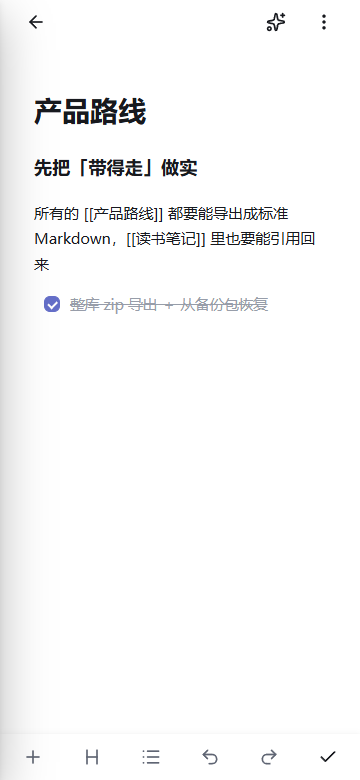
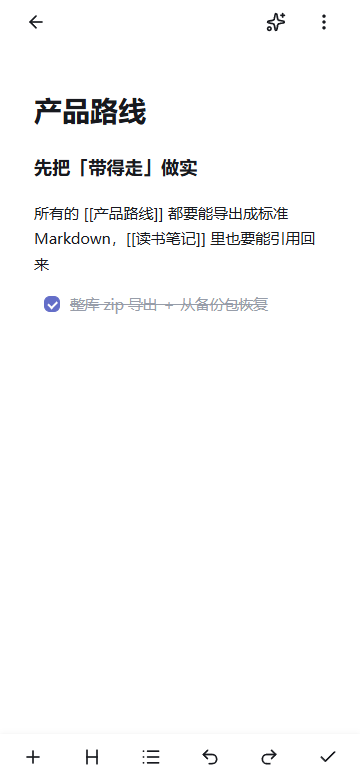
fix(mobile): 抽屉关闭态 visibility 延迟隐藏——box-shadow 不再渗入屏幕左缘（用户截图走查发现）
- 根因：侧栏抽屉关闭 = translateX(-100%) 移出屏幕，但自带的 --shadow-lg
  （48px 大阴影）没有跟着走——从屏幕左缘渗入 12px 渐变带，纵向贯穿全屏
  （README 手机截图左缘的「灰色遮罩感」即此；真机同样可见）
- 修法：关闭态 visibility: hidden + visibility 0s linear 250ms 延迟翻转
  （滑出动画走完才隐藏，阴影随盒子一起退场）；展开态 0s 立即可见
- 验证：探针左缘像素全程 240,241,243 纯页面底色 ✓；抽屉开合功能正常
  （开=立即可见滑入 / 关=滑出后隐藏）· typecheck · 508/508 · check 全绿
- README 四张截图已用修复后状态重生成

diff --git a/app/src/ui/PropertyRows.tsx b/app/src/ui/PropertyRows.tsx
@@ -55,9 +55,6 @@ export type PropertyEditorCallbacks = {
   onSetCreated: (value: string) => void
   onAddTag: (name: string) => void
   onRemoveTag: (tagId: string) => void
-  /** 卡片显隐：控制该字段是否显示在页面库卡片的属性行（存储见 `uiPrefs.hiddenCardFields`）。 */
-  isFieldVisible: (fieldId: string) => boolean
-  onToggleField: (fieldId: string) => void
   /**
    * 「筛这一列」（`13-属性区重规划` §7.1-A3）：值 chip / 标签 chip 的**右键菜单**——把页面库筛选
    * 拨到这个属性=这个值（再点同一值 = 取消）。可选：移动端展开面板暂不接（随 F/G）。
@@ -77,18 +74,18 @@ type PropertyRowsProps = PropertyEditorCallbacks & {
   onCollapse?: () => void
 }
 
-/** 系统字段 id：与卡片显隐的字段标识保持一致。 */
+/** 系统字段 id。 */
 const FIELD_ID = { tags: 'sys:tags', created: 'sys:created', edited: 'sys:edited' } as const
 
 /**
  * 属性行组件（docs/09 §4.4）：桌面属性编辑只有一处形态——**摘要条原位展开**；与移动端展开面板**两处同构**，
- * 结构、分区与「卡片显隐」语义完全一致。
+ * 结构、分区与桌面展开态完全一致。
  * （用户裁决，按新原型）：行解剖 = [类型图标][标签窄栏][值区弹性右置]，零分隔线；
- * **眼睛开关不再常驻**——管理收进行内 **⋯**（重命名 / 卡片显隐 / 移除），悬停或聚焦才浮出（触屏常显）；
+ * **管理收进行内 **⋯**（重命名 / 从本页删除），悬停或聚焦才浮出（触屏常显）；
  * 「＋ 添加属性」从头部挪到**列表末尾一行**。
  */
 export function PropertyRows({
-  rows, onSetValue, onAddOption, onRemoveProperty, onRenameProperty, onSetCreated, onAddTag, onRemoveTag, isFieldVisible, onToggleField, onOpenAddProperty, tagChoices, onFilterOption, onFilterTag, headTitle = '页面属性', onCollapse,
+  rows, onSetValue, onAddOption, onRemoveProperty, onRenameProperty, onSetCreated, onAddTag, onRemoveTag, onOpenAddProperty, tagChoices, onFilterOption, onFilterTag, headTitle = '页面属性', onCollapse,
 }: PropertyRowsProps) {
   const custom = rows.filter((row): row is Extract<PropertyRow, { kind: 'custom' }> => row.kind === 'custom')
   const system = rows.filter((row) => row.kind !== 'custom')
@@ -115,8 +112,6 @@ export function PropertyRows({
         <CustomRow
           key={row.def.id}
           row={row}
-          visible={isFieldVisible(row.def.id)}
-          onToggleField={() => onToggleField(row.def.id)}
           onRename={(name) => onRenameProperty(row.def.id, name)}
           onSetValue={onSetValue}
           onAddOption={onAddOption}
@@ -145,13 +140,13 @@ export function PropertyRows({
                 ))}
                 <TagPicker choices={tagChoices ?? []} active={row.tags.map((tag) => tag.id)} onAdd={onAddTag} onRemove={onRemoveTag} />
               </div>
-              <FieldMenu label="标签" visible={isFieldVisible(FIELD_ID.tags)} onToggle={() => onToggleField(FIELD_ID.tags)} onRemove={() => onRemoveProperty(FIELD_ID.tags)} />
+              <FieldMenu label="标签" onRemove={() => onRemoveProperty(FIELD_ID.tags)} />
             </div>
           )
         }
         if (row.kind === 'time') {
           // **「时间」一行**（`§0-12` 已裁）：值 = 页面创建时间、**用户可改**（`modified` 系统维护、不进面板）；
-          // ⋯ 与标签行同构（卡片显隐 + 从本页删除），不再有"单条菜单"。
+          // ⋯ 与标签行同构（从本页删除），不再有"单条菜单"。
           return (
             <div className="pe-row" key={FIELD_ID.created}>
               <TypeGlyph type="date" label="日期" />
@@ -166,7 +161,7 @@ export function PropertyRows({
                   onChange={(event) => { if (event.target.value) onSetCreated(event.target.value) }}
                 />
               </div>
-              <FieldMenu label="时间" visible={isFieldVisible(FIELD_ID.created)} onToggle={() => onToggleField(FIELD_ID.created)} onRemove={() => onRemoveProperty(FIELD_ID.created)} />
+              <FieldMenu label="时间" onRemove={() => onRemoveProperty(FIELD_ID.created)} />
             </div>
           )
         }
@@ -238,19 +233,12 @@ function RowMenu({ label, items }: { label: string; items: MenuItem[] }) {
   )
 }
 
-/** 默认字段的 ⋯：卡片显隐 ＋ **从本页删除**（`§0-10`：本页不再显示、数据不动；重命名对默认字段不适用）。 */
-function FieldMenu({ label, visible, onToggle, onRemove }: { label: string; visible: boolean; onToggle: () => void; onRemove: () => void }) {
+/** 默认字段的 ⋯：**从本页删除**（`§0-10`：本页不再显示、数据不动；重命名对默认字段不适用）。 */
+function FieldMenu({ label, onRemove }: { label: string; onRemove: () => void }) {
   return (
     <RowMenu
       label={label}
       items={[{
-        key: 'card',
-        icon: visible ? 'eye' : 'eye-off',
-        text: '卡片显隐',
-        meta: visible ? '卡片已显示' : '卡片已隐藏',
-        title: `是否在页面库卡片的属性行显示「${label}」`,
-        onPick: onToggle,
-      }, {
         key: 'remove',
         icon: 'trash',
         text: '从本页删除',
@@ -320,10 +308,8 @@ function TagPicker({ choices, active, onAdd, onRemove }: { choices: TagSummary[]
   )
 }
 
-function CustomRow({ row, visible, onToggleField, onRename, onSetValue, onAddOption, onRemove, onFilterOption, openChipMenu }: {
+function CustomRow({ row, onRename, onSetValue, onAddOption, onRemove, onFilterOption, openChipMenu }: {
   row: Extract<PropertyRow, { kind: 'custom' }>
-  visible: boolean
-  onToggleField: () => void
   /** 改名：**返回失败原因**（`null` = 成功）——调用方就地显示（`§0-6`）。 */
   onRename: (name: string) => string | null
   onSetValue: (defId: string, value: PropertyValue | null) => void
@@ -442,7 +428,6 @@ function CustomRow({ row, visible, onToggleField, onRename, onSetValue, onAddOpt
         label={def.name}
         items={[
           { key: 'rename', icon: 'type', text: '重命名', title: '改属性名（页面上的取值跟着走，是同一个属性）', onPick: () => setRenaming(def.name) },
-          { key: 'card', icon: visible ? 'eye' : 'eye-off', text: '卡片显隐', meta: visible ? '卡片已显示' : '卡片已隐藏', title: '是否在页面库卡片的属性行显示它', onPick: onToggleField },
           { key: 'remove', icon: 'trash', text: '从本页删除', danger: true, title: '本页不再显示这一行（**值保留**——要清值就把值清空；可随时用「添加属性」加回来）', onPick: onRemove },
         ]}
       />

diff --git a/app/src/ui/app.css b/app/src/ui/app.css
@@ -459,46 +459,11 @@ svg { color: inherit; }
    待办框 / AI 标签行会浮在格式栏与窗口栏之上（用户实测 ：「AI 块上面的字直接浮在格式栏
    窗口栏上面」）。规则：头部取自令牌的 --z-sticky（100）——高于覆盖层（5/6），低于菜单弹层（300）。 */
 .wbar { position: relative; z-index: var(--z-sticky); }
-.fmtbar { position: relative; z-index: var(--z-sticky); }
 .prop-wrap { position: relative; z-index: var(--z-sticky); }
 .topbar { position: relative; z-index: var(--z-sticky); }
 
-.fmtbar {
-  flex-shrink: 0;
-  height: var(--fmtbar-h);
-  display: flex;
-  align-items: center;
-  gap: 2px;
-  padding: 0 20px;
-  background: var(--panel);
-  /* 常驻格式栏底线 → 阴影浮起（v3 §二-B） */
-  box-shadow: var(--shadow);
-}
-.fmtbar .div { width: 1px; height: 16px; flex-shrink: 0; margin: 0 5px; background: var(--border); }
-.fmtbar button {
-  height: 28px;
-  min-width: 28px;
-  display: flex;
-  align-items: center;
-  justify-content: center;
-  padding: 0 8px;
-  border-radius: var(--r-block);
-  color: var(--icon-idle);
-  font-size: var(--type-footnote-size); line-height: var(--type-footnote-line);
-  transition: all var(--dur-fast);
-}
-.fmtbar button:hover:not(:disabled) { background: var(--hover); }
-.fmtbar button:disabled { color: var(--text-3); cursor: not-allowed; }
-.fmtbar button.is-on { background: var(--accent-soft); color: var(--accent-text); }
-.fmtbar .fb-type { gap: 4px; color: var(--text); font-family: var(--sans); font-size: var(--type-subheadline-size); line-height: var(--type-subheadline-line); font-weight: 600; }
-.fmtbar .fb-ai { color: var(--accent-text); }
-/* 折叠（`R09-FMT-21`）：只留折叠条与箭头，状态记本机（`uiPrefs.fmtBarCollapsed`）。 */
-.fmtbar.is-collapsed { height: 16px; }
-.fmtbar.is-collapsed { display: none; } /* 折叠 = 整条栏消失（入口在 ⋯ 菜单， 用户裁决） */
-
 /* 专注模式：侧栏、顶栏、格式栏、属性钉住区全部隐去，正文列上移（docs/09 §6.7） */
 body.is-focus .sidebar { margin-left: calc(-1 * var(--side-w)); opacity: 0; pointer-events: none; }
-body.is-focus .fmtbar,
 body.is-focus .topbar,
 body.is-focus .prop-wrap { display: none; }
 
@@ -2214,13 +2179,16 @@ html[data-mode="dark"] .notice button { color: #4F5AC0; }
 /* 窄屏（<900px）：侧栏改为覆盖式抽屉，避免正文列被挤到不可读（原型同值：
    设计原稿在 innerWidth<900 时给 body 加 no-side）。 */
 @media (max-width: 899px) {
-  .sidebar { position: fixed; inset: 0 auto 0 0; z-index: var(--z-drawer); box-shadow: var(--shadow-lg); }
+  .sidebar { position: fixed; inset: 0 auto 0 0; z-index: var(--z-drawer); box-shadow: var(--shadow-lg);
+    /* 关闭态 = 整体隐藏（含阴影）：visibility 延迟到滑出动画结束才翻转，阴影不再渗进屏幕左缘（用户 2026-10-28） */
+    visibility: hidden; transition: transform 250ms ease, visibility 0s linear 250ms; }
   /* 抽屉是 fixed 浮层、不吃 body 的安全区内边距（`D-068` 真机：导航行直冲状态栏）——顶部自己让出。 */
   .sidebar { padding-top: env(safe-area-inset-top, 0px); }
   .side-backdrop { position: fixed; inset: 0; z-index: calc(var(--z-drawer) - 1); background: rgba(32, 32, 39, .32); }
   /* 抽屉形态（`10` §4.5，4b-③）：**左侧滑出 250ms**——宽窄两套抽屉的「收合」合一成滑出。
      原来窄档靠 margin 负值收合：不滑、像整块被抽走；桌面并排档仍按意图收起（margin 那条不上窄档）。 */
-  .sidebar { transition: transform 250ms ease; }
+  .sidebar { transition: transform 250ms ease, visibility 0s; }
+  .sidebar:not(.is-collapsed) { visibility: visible; }
   .sidebar.is-collapsed { margin-left: 0; opacity: 1; transform: translateX(-100%); }
 }
 
@@ -2304,8 +2272,6 @@ html[data-mode="dark"] .notice button { color: #4F5AC0; }
      4a 探针实测：不改这两行，☰ 打开的侧栏被首页整条压住（点不进去、遮罩也被首页拦截）。 */
   .side-backdrop { z-index: calc(var(--z-drawer) + 2); }
   .sidebar { z-index: calc(var(--z-drawer) + 3); }
-  /* 常驻格式栏是桌面件（移动端的格式入口 = 编辑态的键盘上方格式栏 / 块胶囊，§4.3）。 */
-  .fmtbar { display: none; }
   /* 底栏三键（`10` §三：54px，仅编辑器、只读态）：绝对贴 ed-col 底部、让开安全区。 */
   .mdock {
     position: absolute;

diff --git a/app/src/ui/uiPrefs.ts b/app/src/ui/uiPrefs.ts
@@ -1,5 +1,5 @@
 /**
- * UI 偏好（主题、卡片显隐、侧栏折叠）属于界面状态而不是 Block 领域数据：
+ * UI 偏好（主题、侧栏折叠等）属于界面状态而不是 Block 领域数据：
  * 它们不参与 Block 事务、不写入 SQLite，只在本机记住用户的界面选择。
  * 存储不可用时全部退回默认值，界面不能因为偏好读写失败而失效。
  */
@@ -60,9 +60,7 @@ export type UiPrefs = {
   fontSize: FontSizeStep
   lineHeight: LineHeightStep
   columnWidth: ColumnWidthStep
- /** 页面库卡片属性行上被「卡片显隐」关掉的字段 id（属性定义 id 或系统字段 id；入口在属性行的 ⋯ 菜单， 起）。 */
-  hiddenCardFields: string[]
- /** 最近挂到页面上的属性定义 id（最新在前；添加属性弹窗的「最近使用」组， 新设计）。 */
+  /** 最近挂到页面上的属性定义 id（最新在前；添加属性弹窗的「最近使用」组， 新设计）。 */
   recentProperties: string[]
   sidebarCollapsed: boolean
   /** 页面库形态：画册 / 列表 / 简约（docs/09 §4.1）。 */
@@ -81,16 +79,12 @@ export type UiPrefs = {
   importInlineTags: boolean
 }
 
-/** 系统字段 id（docs/09 §4.4：日期与星标默认闭眼，头部已有时间与 ★）。 */
-export const SYSTEM_FIELD_IDS = { tags: 'sys:tags', created: 'sys:created', edited: 'sys:edited', star: 'sys:star' } as const
-
 export const defaultUiPrefs: UiPrefs = {
   themeId: 'default',
   mode: 'light',
   fontSize: 'normal',
   lineHeight: 'normal',
   columnWidth: 'normal',
-  hiddenCardFields: [SYSTEM_FIELD_IDS.created, SYSTEM_FIELD_IDS.edited, SYSTEM_FIELD_IDS.star],
   recentProperties: [],
   sidebarCollapsed: false,
   libraryView: 'list',
@@ -120,7 +114,6 @@ export function loadUiPrefs(): UiPrefs {
       fontSize: parsed.fontSize === 'small' || parsed.fontSize === 'large' || parsed.fontSize === 'xlarge' ? parsed.fontSize : 'normal',
       lineHeight: parsed.lineHeight === 'tight' || parsed.lineHeight === 'loose' ? parsed.lineHeight : 'normal',
       columnWidth: parsed.columnWidth === 'narrow' || parsed.columnWidth === 'wide' ? parsed.columnWidth : 'normal',
-      hiddenCardFields: Array.isArray(parsed.hiddenCardFields) ? parsed.hiddenCardFields.filter((id): id is string => typeof id === 'string') : [...defaultUiPrefs.hiddenCardFields],
       recentProperties: Array.isArray(parsed.recentProperties) ? parsed.recentProperties.filter((id): id is string => typeof id === 'string').slice(0, 6) : [],
       sidebarCollapsed: parsed.sidebarCollapsed === true,
       // 只认显式的 `false`：老偏好（没这一项）落到默认值「收」（与 defaultUiPrefs 一致）。
@@ -169,17 +162,6 @@ export function applyAppearance(prefs: Pick<UiPrefs, 'themeId' | 'mode' | 'fontS
   } catch {
     // 无 document 的环境（测试）直接跳过。
   }
-}
-
-export function isFieldVisible(prefs: UiPrefs, fieldId: string): boolean {
-  return !prefs.hiddenCardFields.includes(fieldId)
-}
-
-export function toggleField(prefs: UiPrefs, fieldId: string): UiPrefs {
-  const hidden = prefs.hiddenCardFields.includes(fieldId)
-    ? prefs.hiddenCardFields.filter((id) => id !== fieldId)
-    : [...prefs.hiddenCardFields, fieldId]
-  return { ...prefs, hiddenCardFields: hidden }
 }
 
 /** 挂属性时记一笔「最近使用」（最新在前、去重、上限 6 条；添加属性弹窗的快捷组数据源）。 */

diff --git a/app/src/ui/useDerivedData.ts b/app/src/ui/useDerivedData.ts
@@ -48,7 +48,6 @@ export function useDerivedData(inputs: DerivedDataInputs) {
   })), [store, revision])
 
   const libraryCards = useMemo<LibraryCard[]>(() => {
-    const visible = prefs.hiddenCardFields
     // 反链数走全库一次扫描的索引（`backlinkSourceCounts`）：逐卡调 `store.backlinks`
     // 是「页数 × 全库」的扫描（性能批 ⓒ ② 实测占每次变动的可观一块）。
     const backlinkCounts = backlinkSourceCounts(snapshot)
@@ -66,31 +65,17 @@ export function useDerivedData(inputs: DerivedDataInputs) {
         if (text) paragraphs.push(text)
         if (paragraphs.length >= 8) break
       }
-      const chips: { id: string; label: string; kind: 'kv' | 'tag' }[] = []
-      for (const def of registry.properties) {
-        if (visible.includes(def.id)) continue
-        const value = page.properties.find((item) => item.defId === def.id)
-        const label = propertyValueLabel(def, value)
-        if (label) chips.push({ id: def.id, label: `${def.name} · ${label}`, kind: 'kv' })
-      }
-      if (!visible.includes('sys:tags')) {
-        for (const tagId of page.tags) {
-          const tag = registry.tags.find((item) => item.id === tagId)
-          if (tag) chips.push({ id: `tag-${tag.id}`, label: `#${tag.name}`, kind: 'tag' })
-        }
-      }
       cards.push({
         id: pageId,
         name: page.objectName ?? '未命名页面',
         paragraphs,
         createdLabel: formatDayMonth(page.created),
         updatedLabel: formatRelative(page.modified),
-        chips,
         backlinkCount: backlinkCounts.get(pageId) ?? 0,
         pinned: page.pinned,
         starred: page.starred,
         // V2c 筛选面板要的结构化字段（`09-桌面端UI规范` §4.2）：标签 id 与单选属性的选中项——
-        // 卡片上那串 chips 是给人看的文案，筛选不能去解析它。
+        // 展示文案与筛选字段分开，筛选不能去解析文案。
         created: page.created,
         modified: page.modified,
         tagIds: [...page.tags],
@@ -98,7 +83,7 @@ export function useDerivedData(inputs: DerivedDataInputs) {
       })
     }
     return cards
-  }, [snapshot, registry, prefs.hiddenCardFields, store])
+  }, [snapshot, store])
 
   /**
    * V2c：筛选后的卡片（`09-桌面端UI规范` §4.2）。**命中判据在 `ui/libraryFilter.ts`**（纯函数，有单测）——

diff --git a/app/src/ui/usePropertyEditor.ts b/app/src/ui/usePropertyEditor.ts
@@ -3,7 +3,7 @@ import type { Block } from '@moqi/editor'
 import type { DomainStore } from '../application/store'
 import { initialValueFor } from './shellSupport'
 import { propertyNameToast, type PropertyEditorCallbacks } from './PropertyRows'
-import { pushRecentProperty, toggleField, type UiPrefs } from './uiPrefs'
+import { pushRecentProperty, type UiPrefs } from './uiPrefs'
 
 /**
  * 属性 / 标签的**写入口**（外壳拆分第四刀， 从 `EditorShell` 抽出）。
@@ -334,8 +334,6 @@ export function usePropertyEditor({
     onSetCreated: setCreated,
     onAddTag: addPageTag,
     onRemoveTag: removePageTag,
-    isFieldVisible: (fieldId) => !prefs.hiddenCardFields.includes(fieldId),
-    onToggleField: (fieldId) => updatePrefs(toggleField(prefs, fieldId)),
   }
 
   return {

diff --git a/app/src/ui/types.ts b/app/src/ui/types.ts
@@ -17,9 +17,7 @@ export type SyncStatus =
   | { kind: 'syncing'; done: number; total: number }
   | { kind: 'offline'; pending: number }
 
-/** 页面卡片属性行的 chip（按「卡片显隐」状态过滤后传入）。 */
-export type CardChip = { id: string; label: string; kind: 'kv' | 'tag' }
-/** 页面库卡片（docs/09 §4.1.1 四段结构）。 */
+/** 页面库卡片（docs/09 §4.1.1 两段结构）。 */
 export type LibraryCard = {
   id: string
   name: string
@@ -27,7 +25,6 @@ export type LibraryCard = {
   paragraphs: string[]
   createdLabel: string
   updatedLabel: string
-  chips: CardChip[]
   backlinkCount: number
   /** V2b：页面置顶（最多 5 个）。卡片头部据此显示置顶标记，⋯ 菜单据此切换文案。 */
   pinned: boolean

diff --git a/app/tests/ui/page-library.test.tsx b/app/tests/ui/page-library.test.tsx
@@ -12,10 +12,6 @@ const cards: LibraryCard[] = [{
   paragraphs: ['约束条件：每周可投入时间 ≤ 10 小时。', '方向一：独立开发。'],
   createdLabel: '09-21',
   updatedLabel: '3 小时前',
-  chips: [
-    { id: 'status', label: '状态 · 进行中', kind: 'kv' },
-    { id: 'tag-1', label: '#副业', kind: 'tag' },
-  ],
   backlinkCount: 2,
   pinned: false,
   starred: false,

diff --git a/app/tests/ui/propertyEditor.test.tsx b/app/tests/ui/propertyEditor.test.tsx
@@ -26,7 +26,7 @@ function harness() {
   let registry = emptyRegistry()
   const toasts: string[] = []
   let closed = 0
-  let prefs: UiPrefs = { hiddenCardFields: [], recentProperties: [] } as unknown as UiPrefs
+  let prefs: UiPrefs = { recentProperties: [] } as unknown as UiPrefs
   let api: ReturnType<typeof usePropertyEditor> | null = null
 
   const Probe = () => {

diff --git a/app/src/ui/tokens.css b/app/src/ui/tokens.css
@@ -164,7 +164,6 @@
   --wbar-h: 40px; /* 标题栏（三色分块体系 §一-3：40px，主列首行、与顶栏同色融合） */
   --ref-w: 340px;
   --topbar-h: 44px;
-  --fmtbar-h: 40px;
   --lib-col-min: 340px;
   /* 编辑器左侧「页面列表」列宽（docs/09 §八） */
   --pagecol-w: 350px;

diff --git a/app/tests/ui/libraryFilter.test.ts b/app/tests/ui/libraryFilter.test.ts
@@ -15,7 +15,6 @@ const card = (id: string, extra: Partial<LibraryCard> = {}): LibraryCard => ({
   paragraphs: [],
   createdLabel: '',
   updatedLabel: '',
-  chips: [],
   backlinkCount: 0,
   pinned: false,
   starred: false,

diff --git a/app/tests/ui/shell.test.tsx b/app/tests/ui/shell.test.tsx
@@ -39,8 +39,6 @@ function callbacks() {
     onSetCreated: () => undefined,
     onAddTag: () => undefined,
     onRemoveTag: () => undefined,
-    isFieldVisible: () => true,
-    onToggleField: () => undefined,
   }
 }
 
